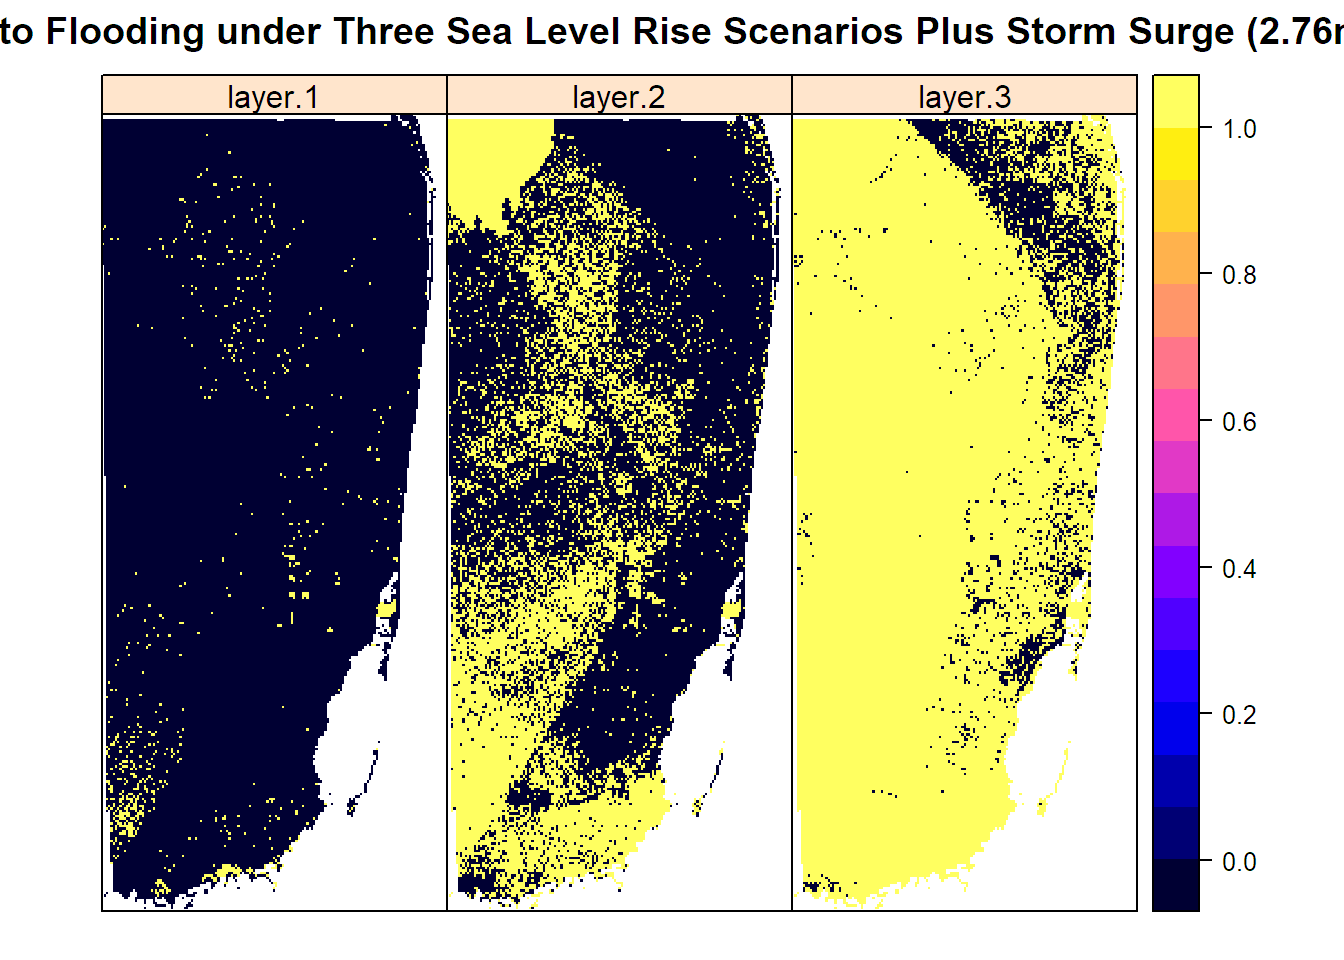
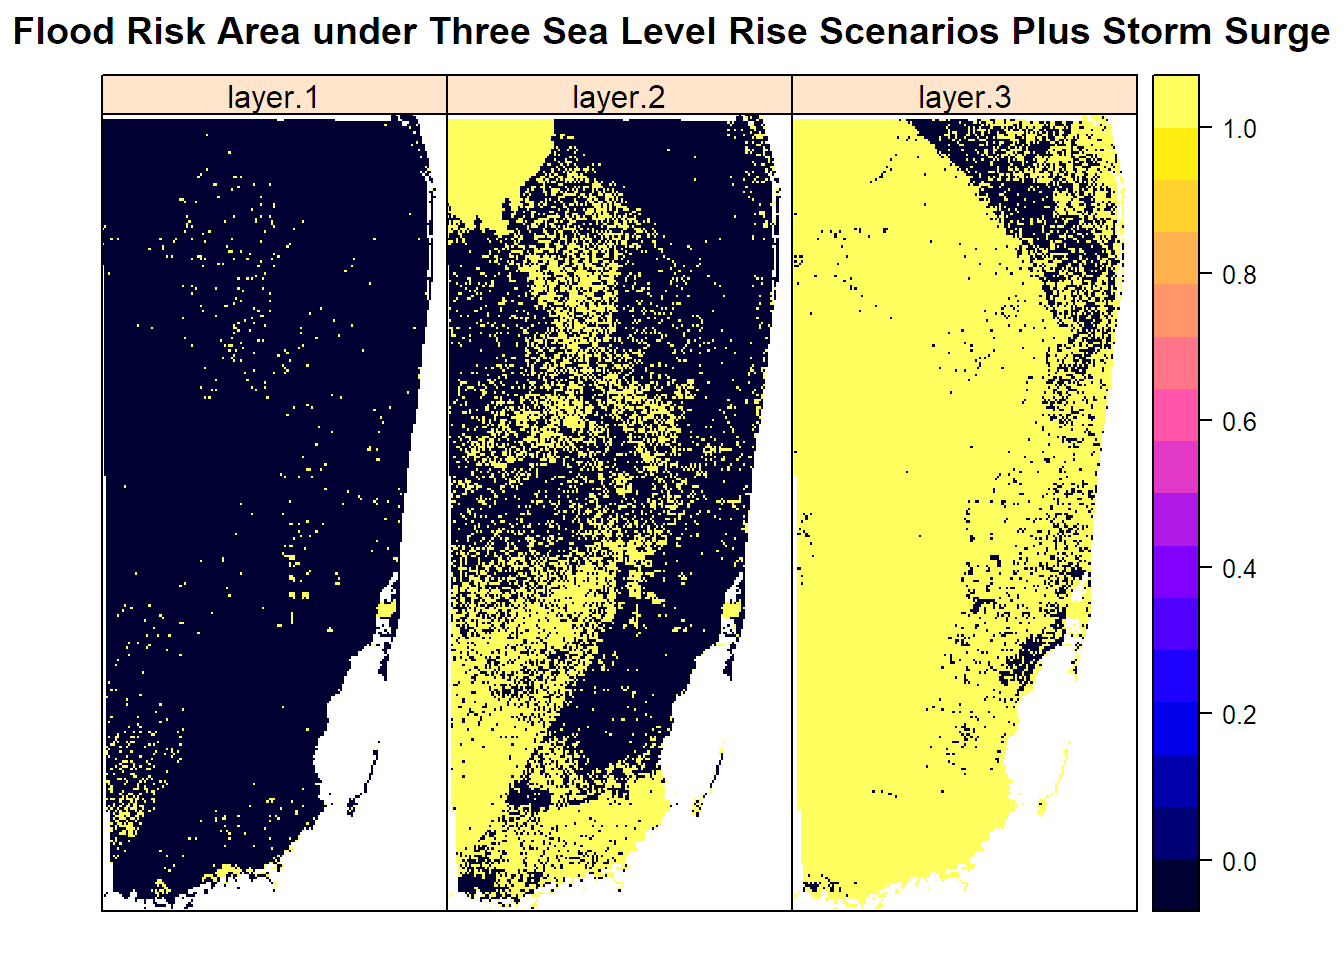
12-7

Changed region(s): [[0.0, 0.0, 1.0, 0.0625]]

diff --git a/docs/index.html b/docs/index.html
@@ -363,13 +363,11 @@ tiger_bg_bound&lt;-readOGR(file.path(wd,&quot;tl_2015_12_bg_2015FloridaBG&quot;)
 </ol>
 <pre class="r"><code>income_map &lt;- merge(tiger_bg_bound,income_3county,by.x=&quot;GEOID&quot;,by.y=&quot;GEO.id2&quot;)
 income_map2 &lt;- income_map[complete.cases(income_map@data), ]
-income_map3 &lt;- fortify(income_map2)</code></pre>
-<pre><code>## Regions defined for each Polygons</code></pre>
-<pre class="r"><code>income_map2$id &lt;- row.names(income_map2)
+income_map3 &lt;- fortify(income_map2)
+income_map2$id &lt;- row.names(income_map2)
 income_map3 &lt;- left_join(income_map3,income_map2@data,by=&quot;id&quot;)
 
 income_map3$HD01_VD01 &lt;- as.numeric(as.character(income_map3$HD01_VD01))</code></pre>
-<pre><code>## Warning: NAs introduced by coercion</code></pre>
 <ol start="6" style="list-style-type: decimal">
 <li>I wanted to also include a map of the sea level rise data from NOAA for the 3 counties, but my difficulties with the socio-economic data did not allow me enough time to also work on successfully using this NOAA data in R.</li>
 </ol>
@@ -377,9 +375,9 @@ income_map3$HD01_VD01 &lt;- as.numeric(as.character(income_map3$HD01_VD01))</cod
 <div id="results" class="section level1">
 <h1>Results</h1>
 <p>The results of my methods detailed above are essentially two plots that can be visually compared for possible correlations:</p>
-<pre class="r"><code>spplot(stack(miami_cropmask&lt;=2.76,miami_cropmask&lt;=5, miami_cropmask&lt;=10.97), main=&quot;Areas at Risk to Flooding under Three Sea Level Rise Scenarios Plus Storm Surge (2.76m, 5m, 10.97m&quot;)</code></pre>
+<pre class="r"><code>spplot(stack(miami_cropmask&lt;=2.76,miami_cropmask&lt;=5, miami_cropmask&lt;=10.97), main=&quot;Flood Risk Area under Three Sea Level Rise Scenarios Plus Storm Surge&quot;)</code></pre>
 <p><img src="index_files/figure-html/unnamed-chunk-6-1.png" width="672" /></p>
-<pre class="r"><code>plot_income3 &lt;- ggplot(income_map3,aes(x=long,y=lat,order=order,group=group,fill=HD01_VD01))+geom_polygon()+scale_fill_gradient(low=&quot;white&quot;,high=&quot;darkred&quot;,na.value = &quot;grey50&quot;)+coord_map()
+<pre class="r"><code>plot_income3 &lt;- ggplot(income_map3,aes(x=long,y=lat,order=order,group=group,fill=HD01_VD01), main=&quot;2015 Household Income by Block Group&quot;)+geom_polygon()+scale_fill_gradient(low=&quot;white&quot;,high=&quot;darkred&quot;,na.value = &quot;grey50&quot;,name=&quot;Income (USD)&quot;)+coord_map()
 plot_income3</code></pre>
 <p><img src="index_files/figure-html/unnamed-chunk-6-2.png" width="672" /></p>
 </div>
